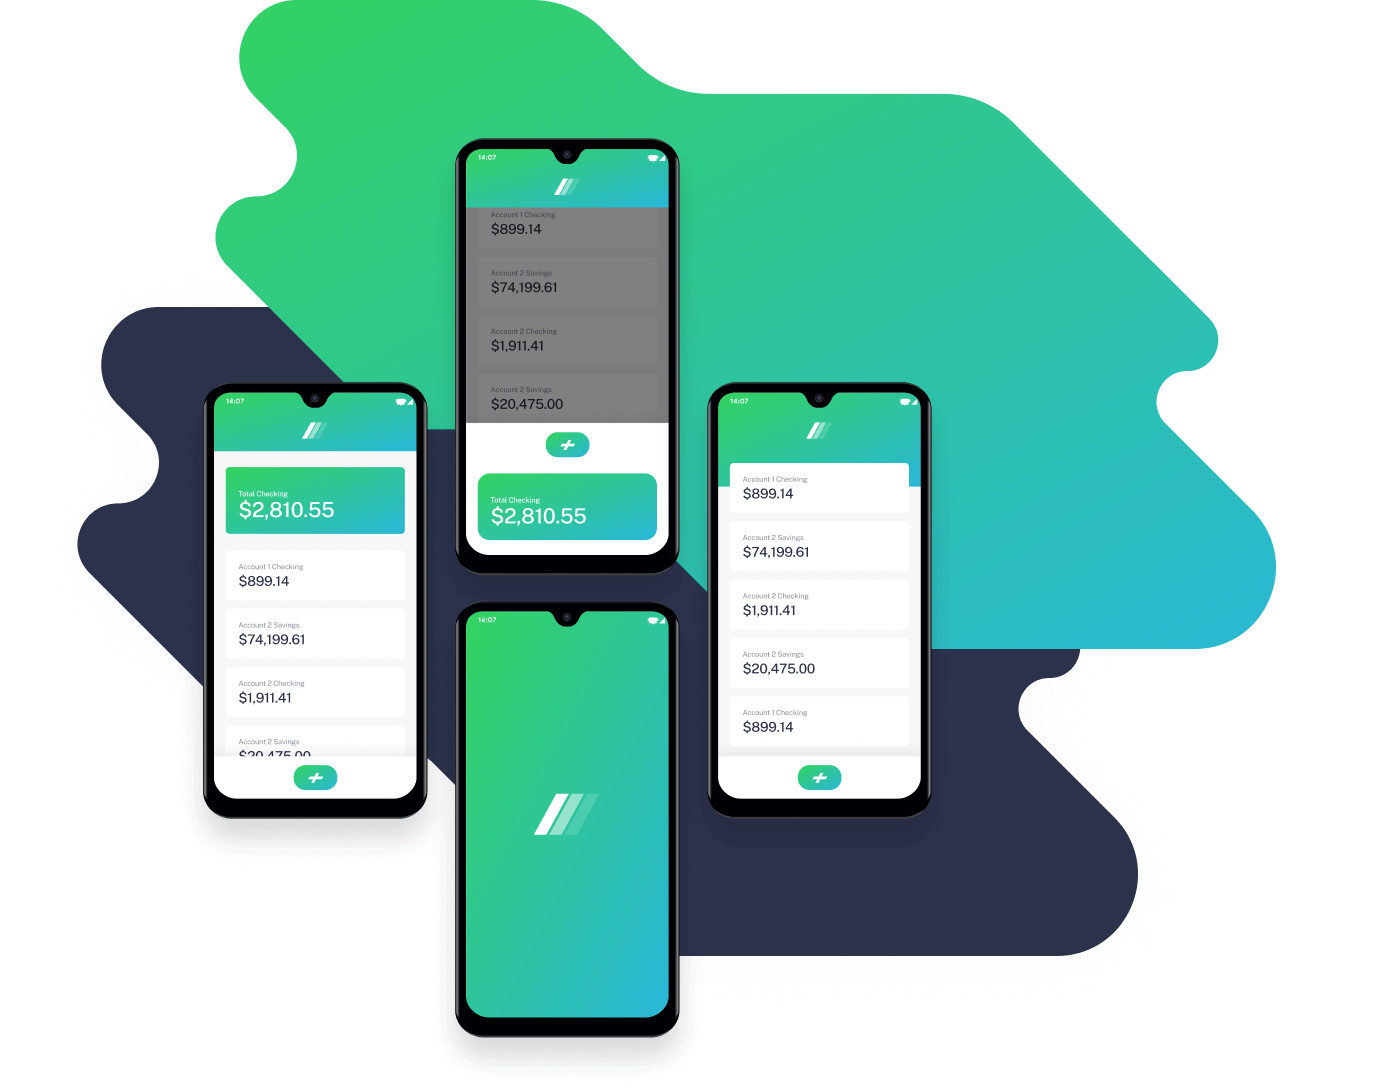
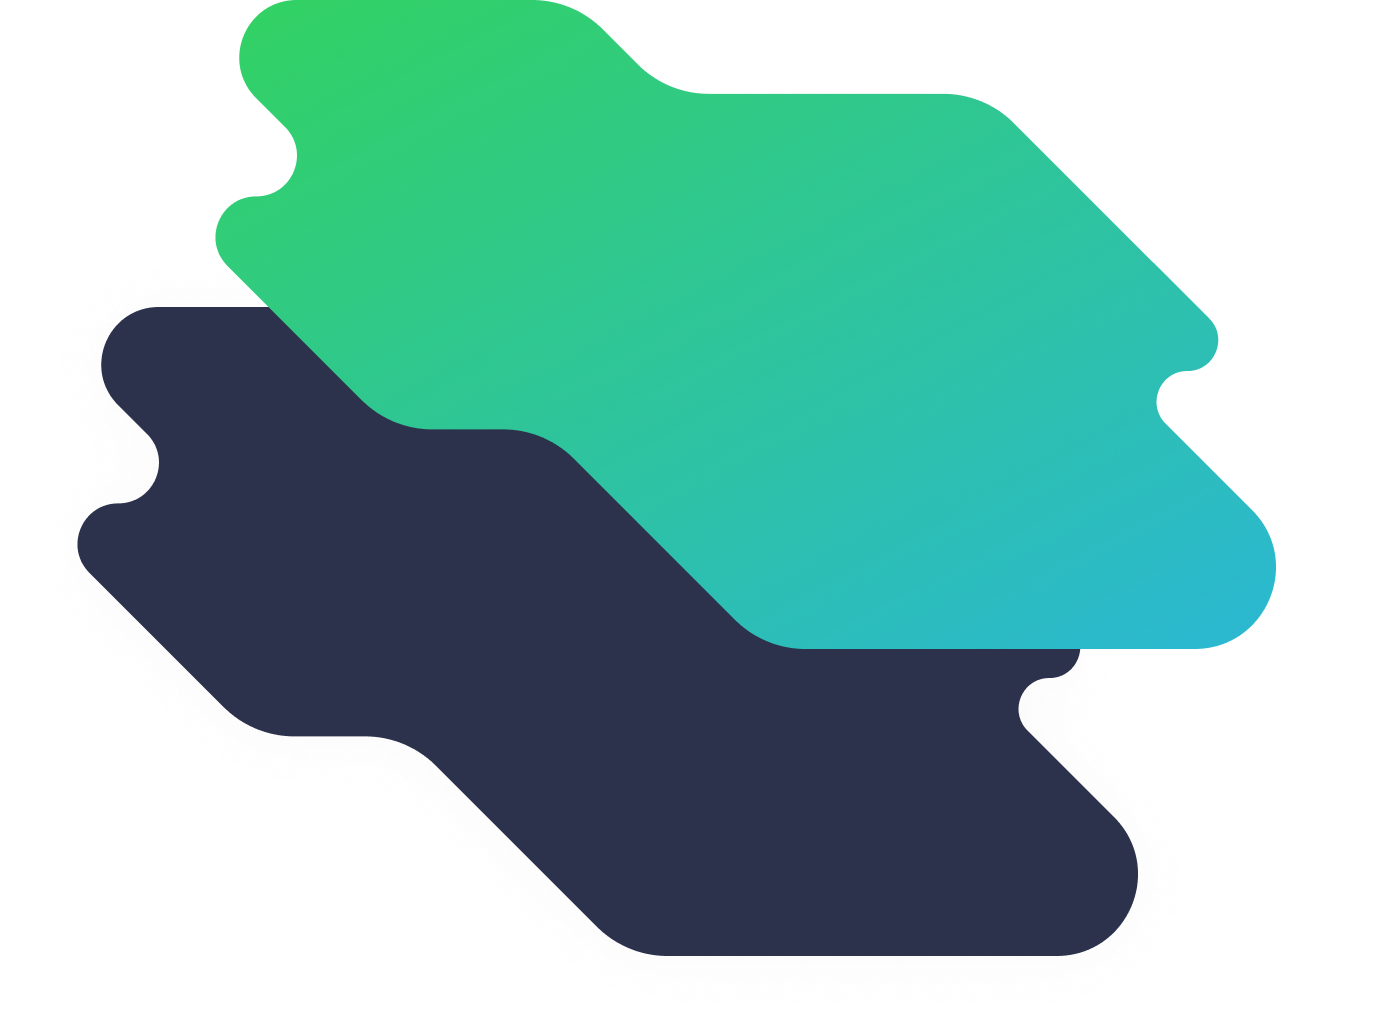
finish the project

diff --git a/scss/blocks/_hero.scss b/scss/blocks/_hero.scss
@@ -1,9 +1,9 @@
 .hero {
   padding: 280px 0 170px;
-  // background-image: url(../images/hero-bg.png);
-  // background-repeat: no-repeat;
-  // background-size: cover;
-  // background-position: calc(50% + 700px) calc(50%);
+  background-image: url(../images/hero-bg.png);
+  background-repeat: no-repeat;
+  background-size: cover;
+  background-position: calc(50% + 700px) calc(50%);
   background-color: #F2F2F2;
 }
 
@@ -12,9 +12,10 @@
 }
 
 .hero__img{
+
   position: absolute;
-  top: calc(50% - 530px);
-  left: calc(50% - 60px);
+  top: calc(50% - 400px);
+  left: calc(50% + 122px);
 }
 
 .hero-info__title {

diff --git a/css/main.css b/css/main.css
@@ -388,6 +388,7 @@ body {
   margin: 0;
   padding: 0;
   font-family: 'Public Sans', sans-serif;
+  overflow-x: hidden;
 }
 
 img {
@@ -566,6 +567,10 @@ img {
 
 .hero {
   padding: 280px 0 170px;
+  background-image: url(../images/hero-bg.png);
+  background-repeat: no-repeat;
+  background-size: cover;
+  background-position: calc(50% + 700px) calc(50%);
   background-color: #F2F2F2;
 }
 
@@ -575,8 +580,8 @@ img {
 
 .hero__img {
   position: absolute;
-  top: calc(50% - 530px);
-  left: calc(50% - 60px);
+  top: calc(50% - 400px);
+  left: calc(50% + 122px);
 }
 
 .hero-info__title {

diff --git a/index.html b/index.html
@@ -38,7 +38,7 @@
           <p class="hero-info__text">Take your financial life online. Your Easybank account will be a one-stop-shop for spending, saving, budgeting, investing, and much more.</p>
           <a href="#" class="hero-info__btn btn">Request Invite</a>
         </div>
-        <img class="hero__img" src="./images/hero-bg.png" alt="mobile phones">
+        <img class="hero__img" src="./images/hero-img.png" alt="mobile phones">
       </div>
     </section>
 

diff --git a/scss/_general.scss b/scss/_general.scss
@@ -18,6 +18,7 @@ body {
 	margin: 0;
 	padding: 0;
 	font-family: 'Public Sans', sans-serif;
+	overflow-x: hidden;
 }
 
 img {
